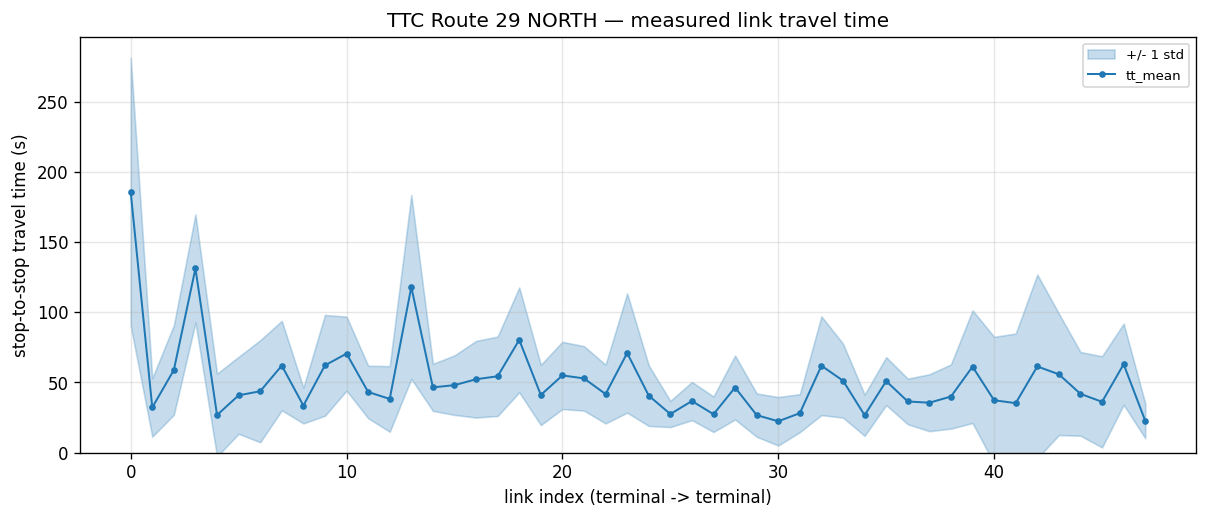
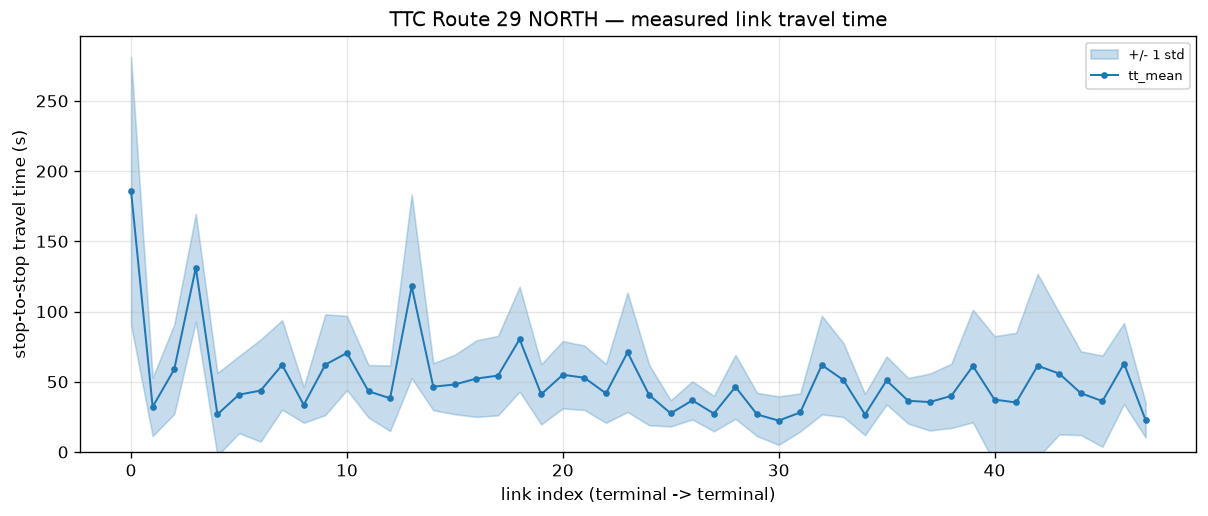
"day 3 complete"

diff --git a/scripts/day3_travel_time.py b/scripts/day3_travel_time.py
@@ -83,7 +83,7 @@ REFERENCE_MEAN_TT_SEC = 50.0
 # --------------------------------------------------------------------------- #
 # Core derivation  (pure: reads data, returns a DataFrame, writes nothing)
 # --------------------------------------------------------------------------- #
-def derive_travel_time(direction: str) -> pd.DataFrame:
+def derive_travel_time(direction: str, print_by_period_data: bool = False) -> pd.DataFrame:
     """Measure stop-to-stop travel time per canonical link for one direction.
 
     Args:
@@ -146,6 +146,30 @@ def derive_travel_time(direction: str) -> pd.DataFrame:
     # night. To model that, groupby ["StopID", "next_id", "PeriodID"] here and
     # return period-specific distributions, then let the simulator pick the
     # active period. The default below collapses all periods into one number.
+
+    if print_by_period_data:
+        measured_period = adj.groupby(["StopID", "next_id", "PeriodID"])["tt"].agg(
+            tt_mean="mean", tt_std="std", tt_count="count"
+        ).reset_index().rename(columns={"StopID": "from_stop_id", "next_id": "to_stop_id"})
+
+        measured_period["tt_std"] = measured_period["tt_std"].fillna(0.0)
+        links_period = pd.DataFrame(
+            {
+                "from_stop_id": ordered_ids[:-1],
+                "to_stop_id": ordered_ids[1:],
+            }
+        )
+        out_period = links_period.merge(measured_period, on=["from_stop_id", "to_stop_id"], how="left")
+
+        no_data_period = out_period["tt_count"].isna()
+        out_period.loc[no_data_period, "tt_mean"] = DEFAULT_TT_MEAN
+        out_period.loc[no_data_period, "tt_std"] = DEFAULT_TT_STD
+        out_period["tt_count"] = out_period["tt_count"].fillna(0).astype(int)
+        out_period["tt_cv"] = np.where(out_period["tt_mean"] > 0, out_period["tt_std"] / out_period["tt_mean"], 0.0)
+        out_period.loc[no_data_period, "tt_cv"] = DEFAULT_TT_CV
+        out_period = out_period[["from_stop_id", "to_stop_id", "PeriodID", "tt_mean", "tt_std", "tt_cv", "tt_count"]]
+
+        print(out_period)
 
     measured = (
         adj.groupby(["StopID", "next_id"])["tt"]
@@ -257,7 +281,7 @@ def run_direction(direction: str) -> pd.DataFrame:
     """Derive, report, and save travel times for one direction. Returns table."""
     C.banner(f"DAY 3 — TRAVEL TIME  ({direction.upper()})")
 
-    tt = derive_travel_time(direction)
+    tt = derive_travel_time(direction, print_by_period_data=True)
 
     n_links = len(tt)
     n_data = int((tt["tt_count"] > 0).sum())

diff --git a/outputs/day3_summary.md b/outputs/day3_summary.md
@@ -1,0 +1,43 @@
+1. Inspect the segment table. Which links are slowest / most variable (highest CV)? High CV links are exactly where bus bunching is born — note them.
+
+For direction North: Link 5 (from stop ids 16098 to 2066) and Link 7 (from stop ids 9739 to 2081) are the most variable (highest CV).
+
+2. Cross-check with AVL speed: convert your tt_mean and the Day-2 spacing into an implied speed (spacing_m / tt_mean × 3.6 km/h) and compare against the AVL KPH median for the corridor (~13 km/h). They should be in the same ballpark; a wild mismatch flags a bad segment.
+
+For direction north; link 1 (stop id 11991 to 14537) has tt_mean of ~185 sec and a distance of ~447 m; therefofe the implied speed for this link is 446/185 * 3.6 = 8.68 km/hr which is near the 13 km/hr mean AVL speed.
+
+3. Write a short note on CV: why link travel-time CV matters for a bunching simulator (it's the noise that destabilizes headways), and whether CV varies by PeriodID.
+
+The greater the travel-time variance; the more likely that the transit system itself will experience non-determenistic and increasingly variable travel times between links; allowing for bus bunching to occur (leading buses may experience delays while following buses may experience express times allowing bunching to occur). Travel Time is shown to vary by period; and the variance of each period is also different amongst them so CV also varies by PeriodID.
+
+======================================================================
+DAY 3 — TRAVEL TIME  (NORTH)
+======================================================================
+    from_stop_id to_stop_id       PeriodID     tt_mean     tt_std     tt_cv  tt_count
+0          11991      14537        AM peak  149.578853  84.709261  0.566318       558
+1          11991      14537      Afternoon  245.746552  89.460885  0.364037       580
+2          11991      14537  Early evening  194.232831  92.508812  0.476278       597
+3          11991      14537  Early morning   94.040000  32.614167  0.346812       125
+4          11991      14537   Late evening  118.005025  54.421716  0.461181       597
+..           ...        ...            ...         ...        ...       ...       ...
+379         2104       2108  Early morning   18.580247   7.653788  0.411931       162
+380         2104       2108   Late evening   18.165517  20.965722  1.154149       580
+381         2104       2108         Midday   25.517204  10.829246  0.424390       930
+382         2104       2108        Morning   25.376190  10.077993  0.397144       210
+383         2104       2108        PM peak   26.268382   9.373056  0.356819       544
+
+======================================================================
+DAY 3 — TRAVEL TIME  (SOUTH)
+======================================================================
+    from_stop_id to_stop_id       PeriodID     tt_mean      tt_std     tt_cv  tt_count
+0           2107       2105        AM peak   33.044597   15.259656  0.461790       583
+1           2107       2105      Afternoon   38.263328   17.690803  0.462344       619
+2           2107       2105  Early evening   32.125887   16.097177  0.501066       564
+3           2107       2105  Early morning   30.314286   35.464662  1.169899       140
+4           2107       2105   Late evening   26.857143   13.050467  0.485922       553
+..           ...        ...            ...         ...         ...       ...       ...
+387        16384      11992  Early morning   87.288889   21.280945  0.243799       135
+388        16384      11992   Late evening  102.646503   59.582177  0.580460       529
+389        16384      11992         Midday  160.659259   70.595112  0.439409       945
+390        16384      11992        Morning  236.831169  158.171047  0.667864       231
+391        16384      11992        PM peak  218.584532  106.174487  0.485737       556
